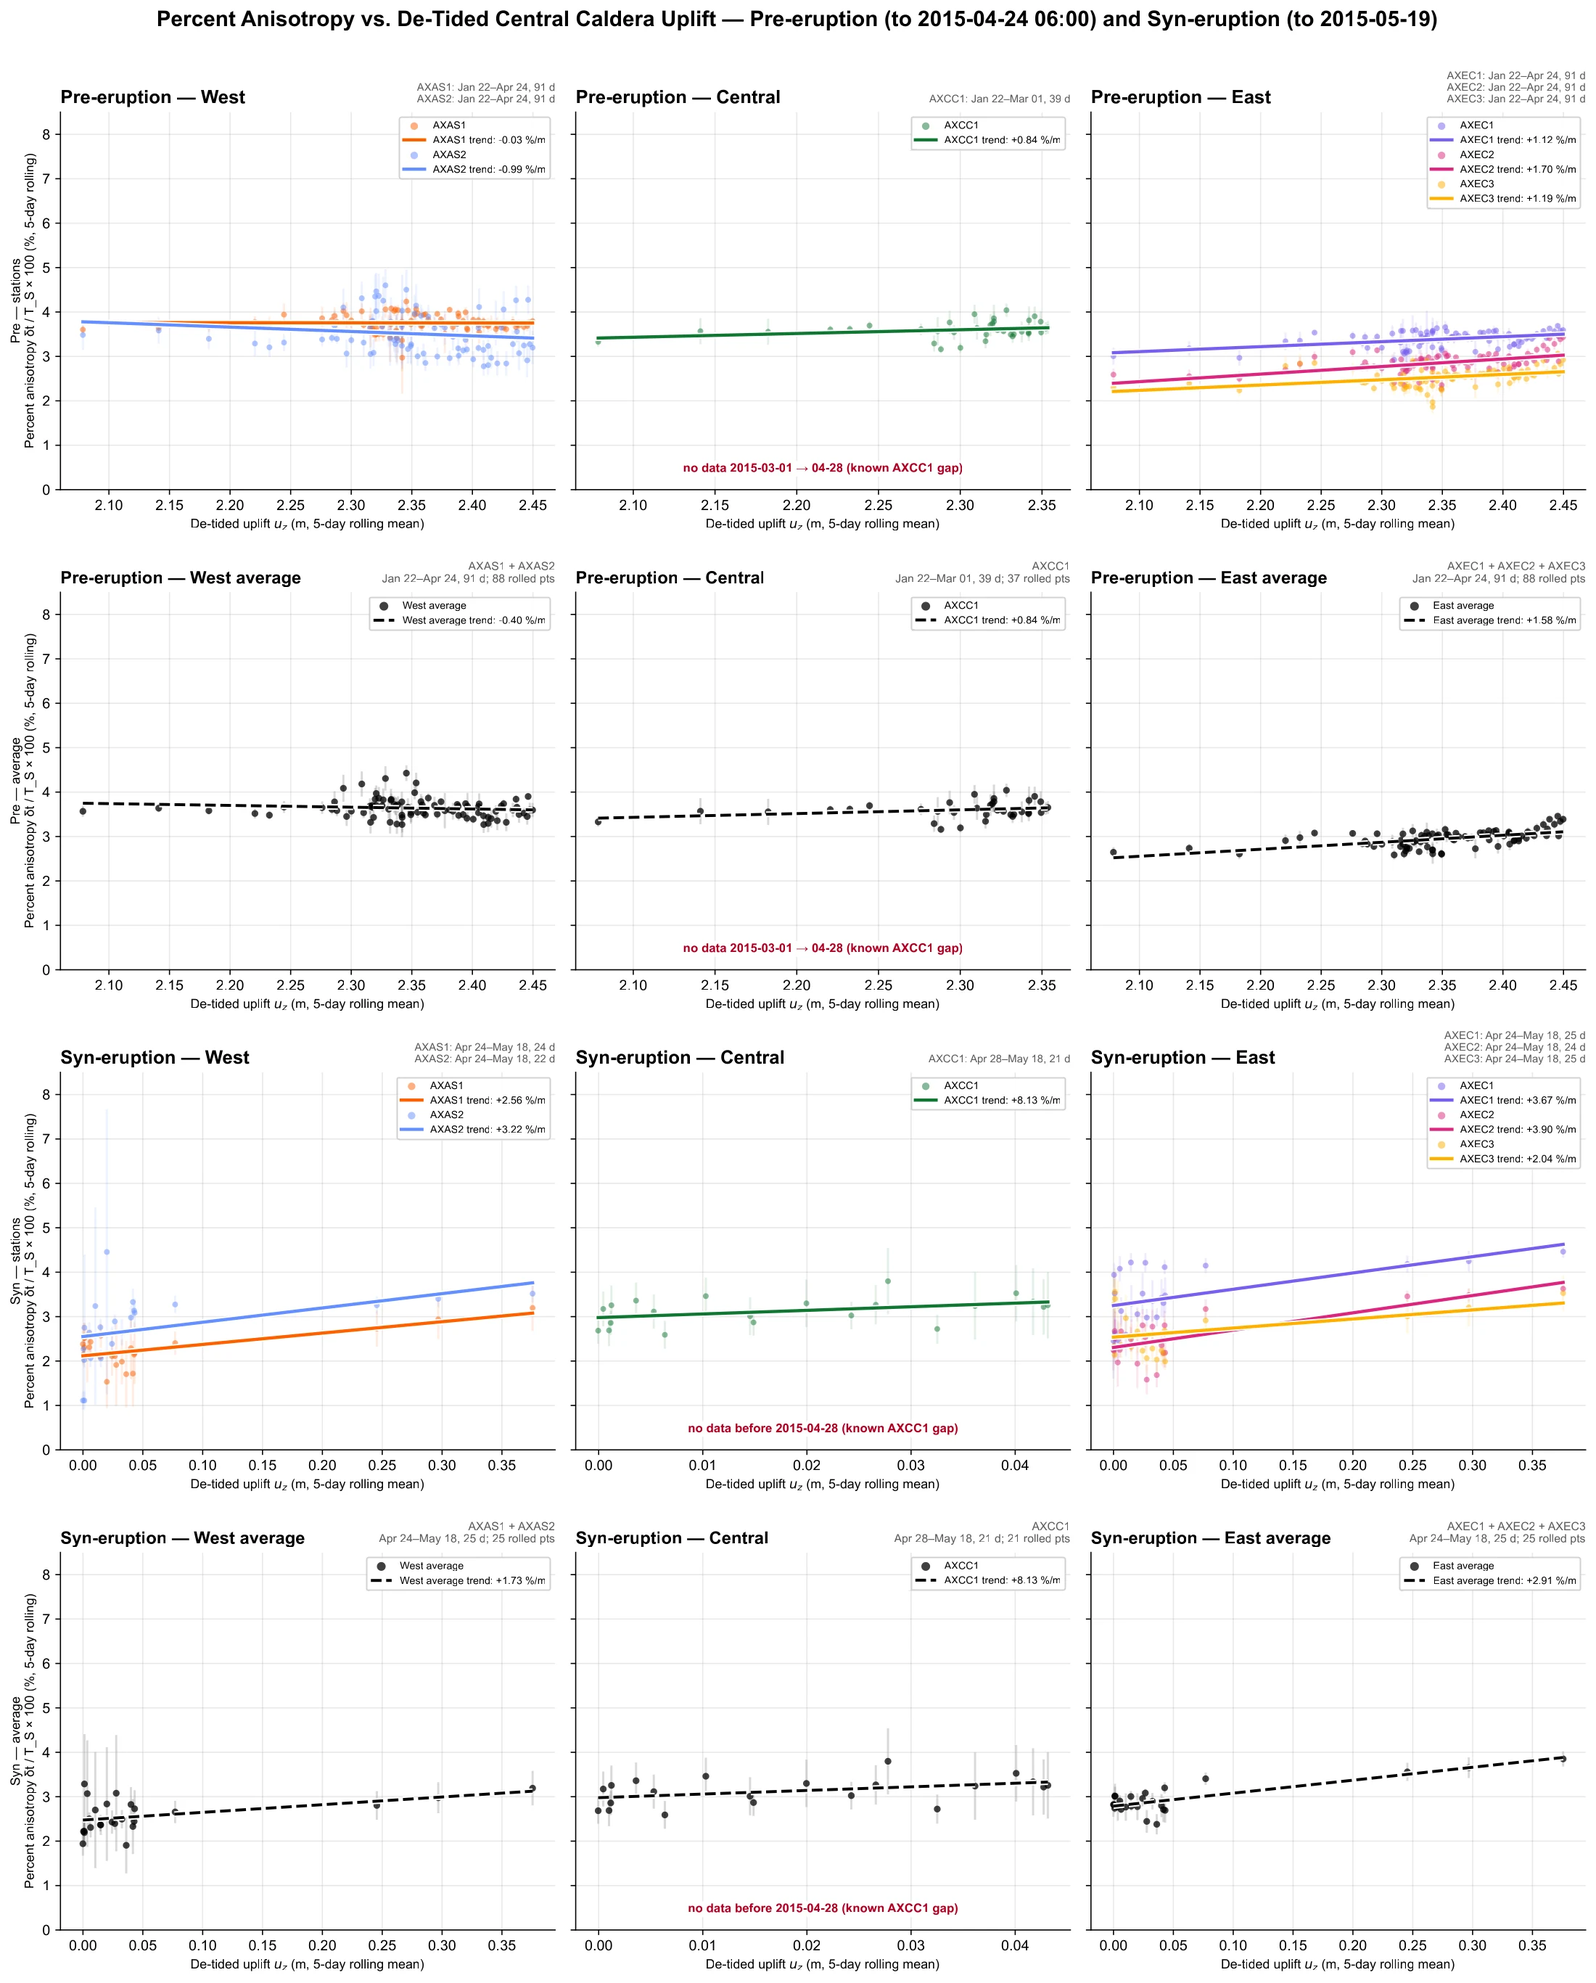
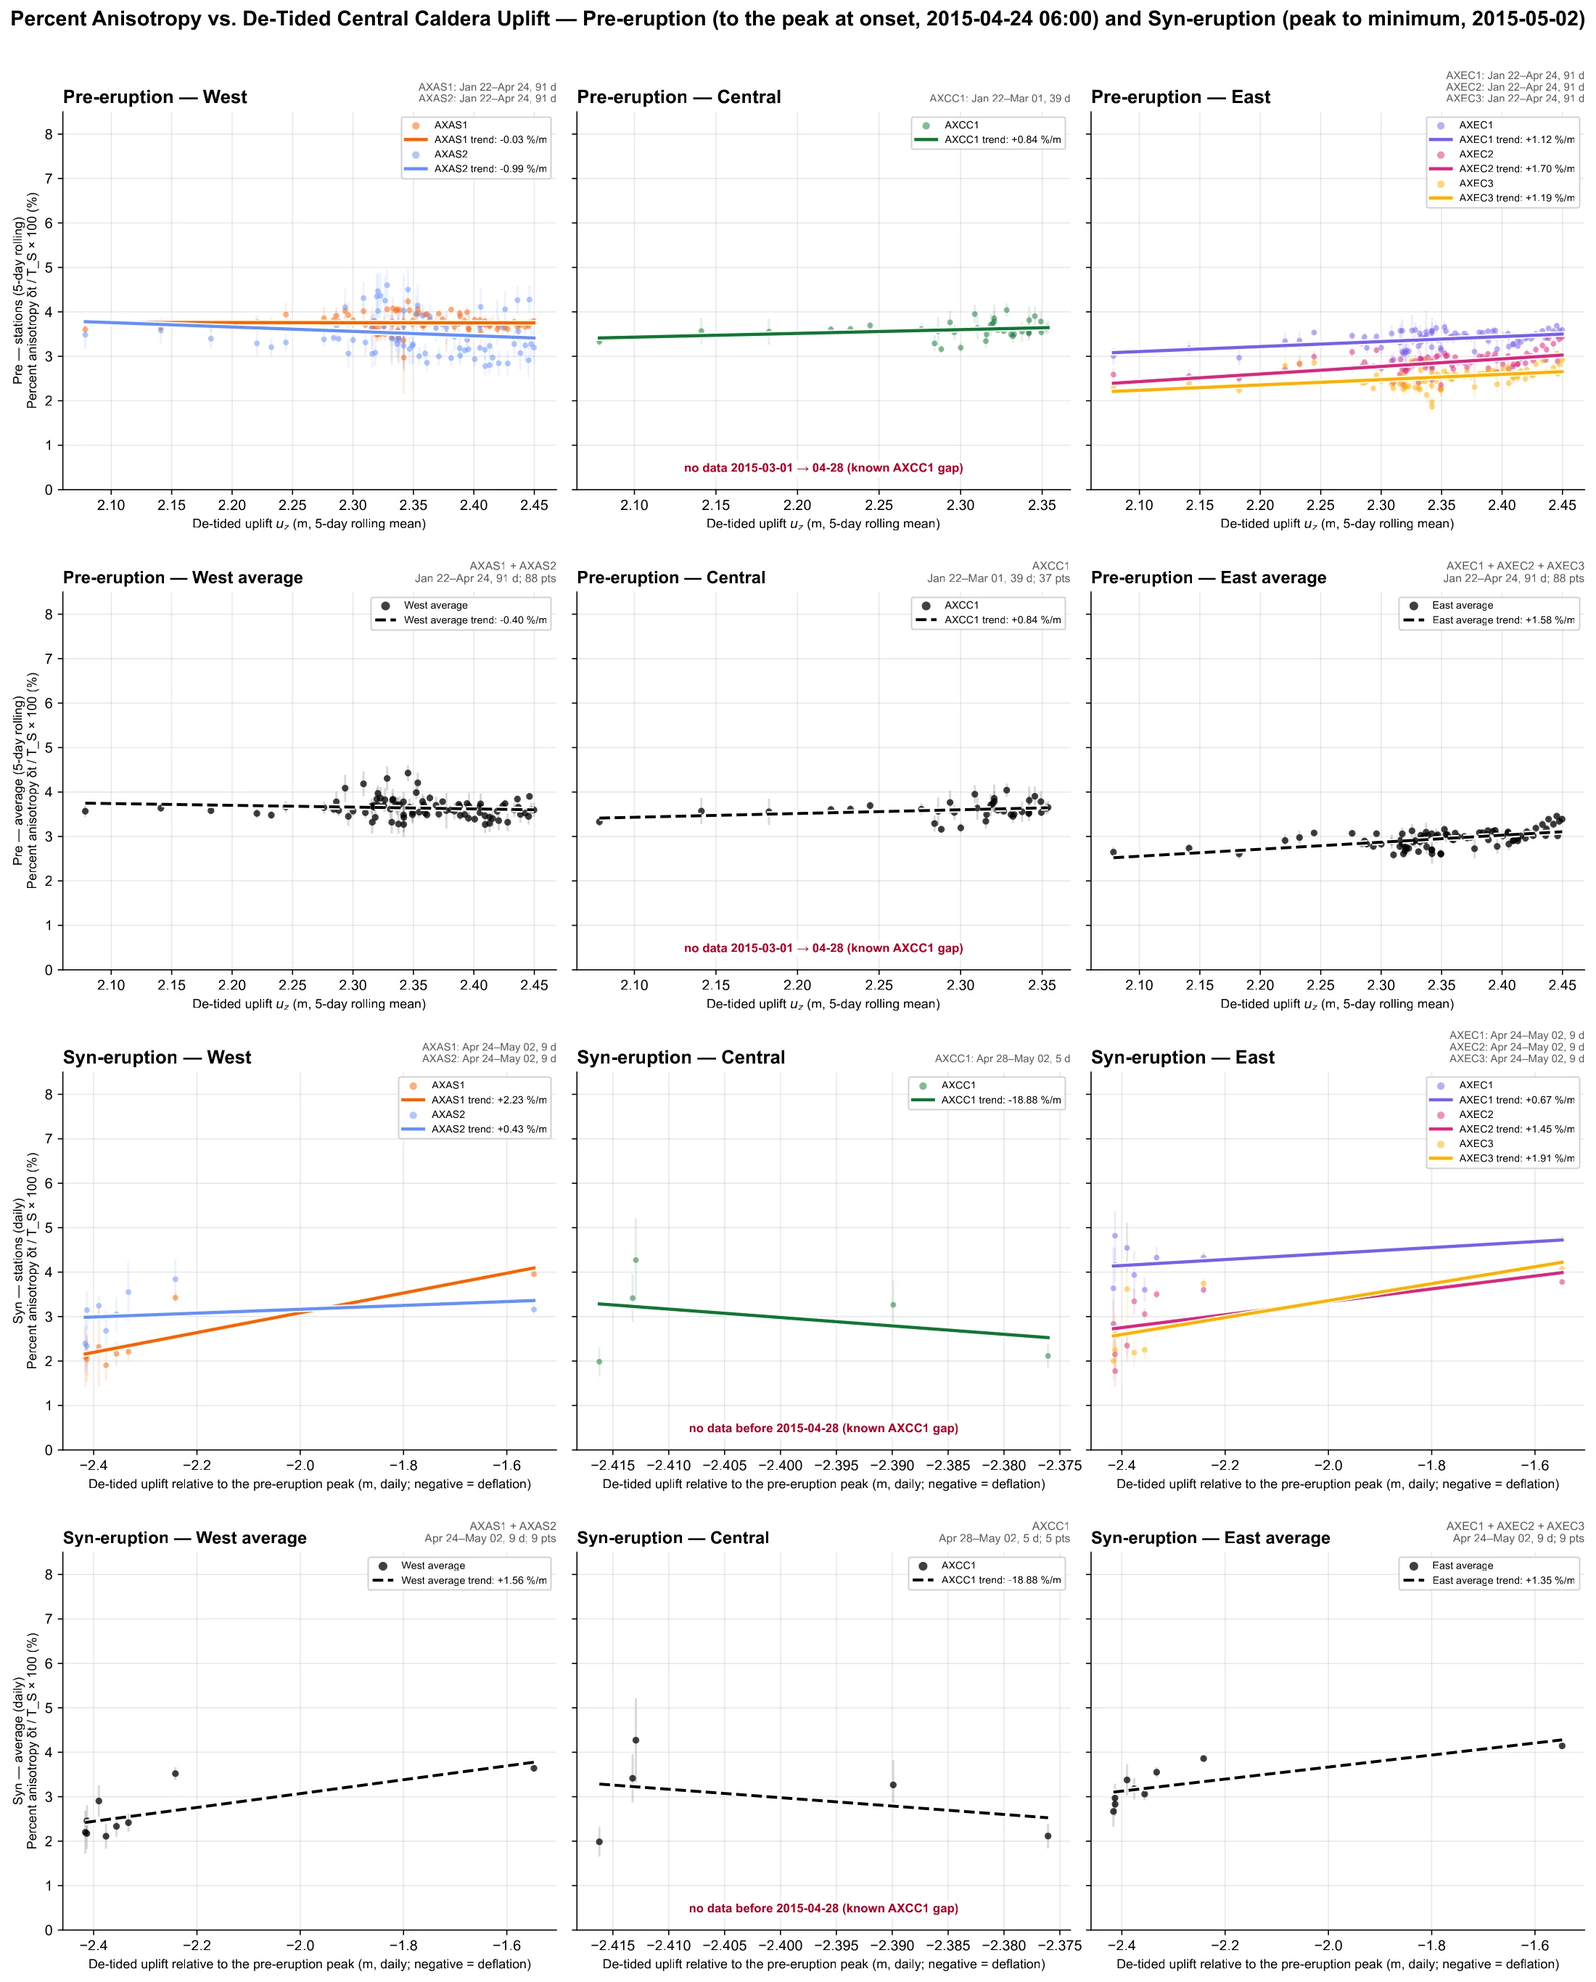
Define syn-eruption as uplift peak to post-eruption minimum
The pre/syn figures now split the record at the pre-eruption uplift peak
and end syn-eruption at the post-eruption minimum (2015-05-02), the zero
reference of every post-eruption figure, instead of using the eruption
window (onset to 05-19).

* The peak is taken at eruption onset (2015-04-24 06:00). Uplift was still
  rising into it, and the earlier plateau high (Apr 6, 2.466 m) is within
  noise of the Apr 23 value (2.458 m).
* Syn-eruption uplift is now relative to the peak, so it runs from 0 to
  about -2.4 m (deflation). The peak level is the mean of the 24 h before
  onset: the hourly de-tided record carries a ~+-1 m tidal residual there,
  and a shorter window landed on a trough.
* Syn-eruption is 9 days long, so it uses daily values with SE from each
  day's events. Pre-eruption keeps the 5-day windows.

2015-05-03 to 05-18 is now in neither these figures nor the post-eruption
ones (which start at 05-19); the captions say so.

diff --git a/site/figures.js b/site/figures.js
@@ -468,24 +468,24 @@ window.AXIAL_FIGURES = [
     "tab": "results",
     "group": "geodetic",
     "title": "Percent anisotropy vs. uplift — pre- and syn-eruption",
-    "caption": "Percent anisotropy A = δt / T_S × 100 against de-tided Central Caldera uplift before the eruption (2015-01-22 → 04-24 06:00) and during it (→ 05-19, where the post-eruption figures begin). Rows: pre stations, pre averages, syn stations, syn averages; linear trendline on every series. 5-day rolling windows, computed strictly inside each period (the syn period is only ~25 days and most of the ~2.4 m deflation happens on the first day, so the post-eruption 30-day window cannot be used). Read the syn trends with care: almost all syn uplift values sit at 0–0.05 m and the first ~3 days after onset (0.25–0.38 m) carry the slopes. AXCC1 has no data 2015-03-01 → 04-28, so its syn panel spans only 0–0.045 m. Note that uplift bottoms out on 2015-05-02, so the last ~2 weeks of 'syn' already contain the earliest re-inflation.",
+    "caption": "Percent anisotropy A = δt / T_S × 100 against de-tided Central Caldera uplift before and during the eruption. Pre-eruption runs from the start of the record (2015-01-22) to the uplift peak, taken at eruption onset (2015-04-24 06:00); syn-eruption runs from that peak to the post-eruption uplift minimum (2015-05-02), the zero reference of every post-eruption figure. Pre-eruption uplift is relative to that minimum (positive, 5-day rolling); syn-eruption uplift is relative to the peak (mean of the 24 h before onset), so it is negative: 0 → −2.4 m of deflation. Syn values are daily (the period is 9 days), with ±1 SE from that day's events. Linear trendline on every series. Read the syn trends with care: most of the deflation happens within the first day, so the onset day (−1.55 m) is the only point away from the −2.3 to −2.4 m cluster and it sets the slopes. AXCC1 has no data 2015-03-01 → 04-28. 2015-05-03 → 05-18 (earliest re-inflation) is in neither this figure nor the post-eruption ones, which start at 05-19.",
     "badge": [],
     "featured": true,
     "src": "assets/figures/results/geo-presyn-aniso.webp",
     "width": 2200,
-    "height": 2733
+    "height": 2732
   },
   {
     "id": "geo-presyn-phi",
     "tab": "results",
     "group": "geodetic",
     "title": "Fast direction vs. uplift — pre- and syn-eruption",
-    "caption": "Same periods, windows and layout as the percent-anisotropy figure, for the rolling circular-mean fast direction (one y-axis wrap per column so rows line up). Linear trendlines only — the atan2 fit cannot be constrained by 25 days, and its β is not identifiable anyway. The same leverage caveat applies to the syn trends; pre-eruption AXCC1 is bimodal, so its trendline does not describe it, and its −680 °/m syn slope reflects a 0.045 m uplift span, not a physical rate.",
+    "caption": "Same periods, uplift references, smoothing and layout as the percent-anisotropy figure, for the circular-mean fast direction (one y-axis wrap per column so rows line up). Linear trendlines only — the atan2 fit cannot be constrained by 9 days, and its β is not identifiable anyway. The same onset-day leverage applies to the syn trends; pre-eruption AXCC1 is bimodal, so its trendline does not describe it, and AXCC1's syn panel spans only 0.04 m of uplift, so its slope is not a physical rate.",
     "badge": [],
     "featured": false,
     "src": "assets/figures/results/geo-presyn-phi.webp",
     "width": 2200,
-    "height": 2733
+    "height": 2738
   },
   {
     "id": "geo-post-aniso",

diff --git a/scripts/uplift_vs_phi_aniso_pre_syn_ccal.py b/scripts/uplift_vs_phi_aniso_pre_syn_ccal.py
@@ -12,16 +12,24 @@ ccal_30day.py). Two figures, each 4 rows x 3 columns (West / Central / East):
     row 4  syn-eruption, regional averages
 
 Periods:
-    pre  = start of record (2015-01-22) -> ERUPTION_START (2015-04-24 06:00)
-    syn  = ERUPTION_START -> ERUPTION_END (2015-05-19), i.e. up to where the post-eruption
-           re-inflation figures begin. NOTE: the de-tided uplift itself bottoms out on 2015-05-02
-           (load_daily_series' ref_time) and is already rising by 05-19, so the last ~2 weeks of
-           "syn" contain the earliest re-inflation.
+    pre  = start of record (2015-01-22) -> the pre-eruption uplift PEAK
+    syn  = the peak -> the post-eruption uplift MINIMUM (load_daily_series' ref_time, 2015-05-02,
+           inclusive) -- the zero reference of every post-eruption figure.
+The peak is taken at eruption onset (ERUPTION_START, 2015-04-24 06:00), by user decision: uplift
+was still rising into it (Apr 23 daily mean 2.458 m) and the earlier plateau high (Apr 6,
+2.466 m) is within day-to-day noise of it. NOTE: the post-eruption figures still start at
+ERUPTION_END (2015-05-19), so 2015-05-03 .. 05-18 (earliest re-inflation) is in neither set.
 
-Smoothing: ROLL_DAYS-day centred rolling windows (not the post-eruption 30 days -- the
-syn-eruption period is only ~25 days long and most of the ~2.4 m deflation happens on the first
-day, which a 30-day window would erase). Rolling is done STRICTLY within each period, for the
-seismic series and for uplift, so nothing mixes across the eruption onset. Uplift is de-tided
+Uplift reference: PRE-eruption uplift is relative to the post-eruption minimum, as everywhere
+else (positive, ~2.1-2.45 m). SYN-eruption uplift is relative to the PEAK level -- the mean
+de-tided level over the PEAK_REF_HOURS before onset (24 h = two semidiurnal cycles, because the
+hourly de-tided record carries a ~+-1 m tidal residual around onset) -- so it runs from 0 down to
+about -2.4 m: the deflation.
+
+Smoothing: pre-eruption uses ROLL_DAYS-day centred rolling windows; syn-eruption (~9 days, with
+most of the deflation inside the first day) uses DAILY values, no rolling, with +-1 SE from the
+spread of that day's events. Everything is computed STRICTLY within each period, seismic series
+and uplift alike, so nothing mixes across the boundaries. Uplift is de-tided
 CCAL BOTPT, referenced to the post-eruption minimum as everywhere else, averaged per day from
 the minute-level record restricted to the period (the onset day is split at 06:00).
 
@@ -29,7 +37,7 @@ Metrics, from the same pooled Grade-3 events and AXEC2 unleveled-window drop:
     phi  per-day circular mean -> rolling circular mean (+-1 SE = circ. std / sqrt(days))
     A    dt / T_S * 100, T_S from the PyKonal travel-time cache (see the anisotropy script)
 Each series gets a least-squares LINEAR trendline (slope in legend). The atan2 fit is not used:
-25 days cannot constrain it, and its beta is not identifiable anyway.
+9 days cannot constrain it, and its beta is not identifiable anyway.
 
 Missing data are stated on the panels; AXCC1 has no data 2015-03-01 to 2015-04-28 (known gap).
 
@@ -64,11 +72,16 @@ import bpr_inflation_periods_ccal as ccal_infl
 HERE = os.path.dirname(os.path.abspath(__file__))
 ROLL_DAYS = 5
 ROLL_MIN_DAYS = 2
+PEAK_REF_HOURS = 24
 RECORD_START = pd.Timestamp('2015-01-22', tz='UTC')
+PEAK_TIME = ERUPTION_START                       # pre-eruption uplift peak (see docstring)
+_MIN_TIME = ccal_infl.load_daily_series()[3]     # post-eruption minimum = post zero reference
+SYN_END = _MIN_TIME + pd.Timedelta(days=1)       # minimum day inclusive
 PERIODS = [
-    ('Pre-eruption', RECORD_START, ERUPTION_START),
-    ('Syn-eruption', ERUPTION_START, ERUPTION_END),
+    ('Pre-eruption', RECORD_START, PEAK_TIME),
+    ('Syn-eruption', PEAK_TIME, SYN_END),
 ]
+ROLL_BY_PERIOD = {'Pre-eruption': ROLL_DAYS, 'Syn-eruption': 1}   # 1 = daily, no rolling
 HALO = [pe.withStroke(linewidth=4, foreground='white')]
 
 
@@ -79,22 +92,45 @@ def uplift_daily_by_period():
     raw = pd.read_csv(ccal_infl.DETIDED_CSV, usecols=['time', 'detided_depth_m'])
     raw['time'] = pd.to_datetime(raw['time'], utc=True)
     raw = raw.set_index('time')['detided_depth_m'] - ref_depth
+    pre_peak = raw[(raw.index >= PEAK_TIME - pd.Timedelta(hours=PEAK_REF_HOURS)) &
+                   (raw.index < PEAK_TIME)]
+    u_peak = float(pre_peak.mean())
+    print(f'Uplift at the pre-eruption peak (mean of {PEAK_REF_HOURS} h before onset): '
+          f'{u_peak:.3f} m above the post-eruption minimum')
     out = {}
     for label, t0, t1 in PERIODS:
         s = raw[(raw.index >= t0) & (raw.index < t1)]
+        if label == 'Syn-eruption':
+            s = s - u_peak           # relative to the peak: 0 -> ~-2.4 m (deflation)
         daily = s.groupby(s.index.floor('D')).mean()
-        out[label] = daily.rolling(f'{ROLL_DAYS}D', center=True, min_periods=ROLL_MIN_DAYS).mean()
+        n = ROLL_BY_PERIOD[label]
+        out[label] = daily if n == 1 else \
+            daily.rolling(f'{n}D', center=True, min_periods=ROLL_MIN_DAYS).mean()
     return out
 
 
-def rolled(pool, metric, t0, t1, u_daily):
+def rolled(pool, metric, t0, t1, u_daily, roll_days=ROLL_DAYS):
     """Daily -> within-period rolling series of `metric` ('phi' or 'A'), joined to uplift by day.
     Returns DataFrame(t, u, v, se) with v in raw degrees (phi) or % (A)."""
     p = pool[(pool['t'] >= t0) & (pool['t'] < t1)].copy()
     if len(p) == 0:
         return pd.DataFrame(columns=['t', 'u', 'v', 'se'])
     p['day'] = p['t'].dt.floor('D')
-    win = f'{ROLL_DAYS}D'
+    if roll_days == 1:                       # daily values; SE from that day's events
+        if metric == 'phi':
+            a = 2.0 * np.radians(p['phi_az'] % 180.0)
+            g = pd.DataFrame({'s2': np.sin(a), 'c2': np.cos(a), 'day': p['day']}).groupby('day')
+            ms, mc, n = g['s2'].mean(), g['c2'].mean(), g['s2'].count()
+            v = (np.degrees(np.arctan2(ms, mc)) / 2.0) % 180.0
+            R = np.clip(np.hypot(ms, mc), 1e-12, 1.0)
+            se = np.degrees(np.sqrt(-2.0 * np.log(R))) / 2.0 / np.sqrt(n.clip(lower=1))
+        else:
+            g = p.groupby('day')['A_pct']
+            v, se = g.mean(), g.std() / np.sqrt(g.count().clip(lower=1))
+        df = pd.DataFrame({'v': v, 'se': se.fillna(0.0)}).dropna(subset=['v'])
+        df['u'] = u_daily.reindex(df.index).values
+        return df.dropna(subset=['u']).reset_index().rename(columns={'day': 't'})
+    win = f'{roll_days}D'
     if metric == 'phi':
         a = 2.0 * np.radians(p['phi_az'] % 180.0)
         p['s2'], p['c2'] = np.sin(a), np.cos(a)
@@ -160,7 +196,7 @@ def make_figure(metric, pools, u_by_period, out_base):
     if is_phi:
         for col, (title, _s, members) in enumerate(PANELS):
             vals = np.concatenate([rolled(pools[tuple(members)], 'phi', t0, t1,
-                                          u_by_period[lbl])['v'].values
+                                          u_by_period[lbl], ROLL_BY_PERIOD[lbl])['v'].values
                                    for lbl, t0, t1 in PERIODS])
             wraps[col] = compute_optimal_wrap(vals) if len(vals) > 1 else 0.0
 
@@ -174,7 +210,7 @@ def make_figure(metric, pools, u_by_period, out_base):
 
             # averages (black)
             pool = pools[tuple(members)]
-            d = rolled(pool, metric, t0, t1, u_daily)
+            d = rolled(pool, metric, t0, t1, u_daily, ROLL_BY_PERIOD[plabel])
             avg_lab = f'{title} average' if len(members) > 1 else members[0]
             if len(d):
                 y = to_y(d['v'], col)
@@ -188,7 +224,7 @@ def make_figure(metric, pools, u_by_period, out_base):
                              else f'{plabel} — {title}', fontsize=12, fontweight='bold',
                              loc='left')
             ax_avg.text(1.0, 1.02, f'{subtitle.splitlines()[0]}\n'
-                        f'{coverage_note(pool, t0, t1)}; {len(d)} rolled pts',
+                        f'{coverage_note(pool, t0, t1)}; {len(d)} pts',
                         transform=ax_avg.transAxes, ha='right', va='bottom', fontsize=8,
                         color='0.35')
 
@@ -196,7 +232,7 @@ def make_figure(metric, pools, u_by_period, out_base):
             notes = []
             for sta in members:
                 ps = pools[(sta,)]
-                ds = rolled(ps, metric, t0, t1, u_daily)
+                ds = rolled(ps, metric, t0, t1, u_daily, ROLL_BY_PERIOD[plabel])
                 c = STATION_COLORS[sta]
                 if len(ds):
                     y = to_y(ds['v'], col)
@@ -224,8 +260,10 @@ def make_figure(metric, pools, u_by_period, out_base):
                     ax.spines[side].set_visible(False)
                 if ax.get_legend_handles_labels()[0]:
                     ax.legend(loc='upper right', fontsize=7.2, framealpha=0.9, markerscale=1.3)
-                ax.set_xlabel(f'De-tided uplift $u_z$ (m, {ROLL_DAYS}-day rolling mean)',
-                              fontsize=9)
+                ax.set_xlabel(f'De-tided uplift $u_z$ (m, {ROLL_DAYS}-day rolling mean)'
+                              if p_idx == 0 else
+                              'De-tided uplift relative to the pre-eruption peak (m, daily; '
+                              'negative = deflation)', fontsize=9)
                 if is_phi:
                     lo, hi, tp, tl = compute_full_range_ticks(wraps[col])
                     ax.set_ylim(lo, hi)
@@ -235,14 +273,15 @@ def make_figure(metric, pools, u_by_period, out_base):
     if not is_phi:
         for ax in axes.ravel():
             ax.set_ylim(0, 8.5)
-    ylab = (f'Mean fast direction φ (deg, {ROLL_DAYS}-day rolling)' if is_phi
-            else f'Percent anisotropy δt / T_S × 100 (%, {ROLL_DAYS}-day rolling)')
-    for r, rl in enumerate(['Pre — stations', 'Pre — average', 'Syn — stations',
-                            'Syn — average']):
+    ylab = 'Mean fast direction φ (deg)' if is_phi else 'Percent anisotropy δt / T_S × 100 (%)'
+    for r, rl in enumerate([f'Pre — stations ({ROLL_DAYS}-day rolling)',
+                            f'Pre — average ({ROLL_DAYS}-day rolling)', 'Syn — stations (daily)',
+                            'Syn — average (daily)']):
         axes[r, 0].set_ylabel(f'{rl}\n{ylab}', fontsize=9)
     what = 'Fast Direction' if is_phi else 'Percent Anisotropy'
-    fig.suptitle(f'{what} vs. De-Tided Central Caldera Uplift — Pre-eruption (to 2015-04-24 06:00) '
-                 f'and Syn-eruption (to 2015-05-19)', fontsize=15, fontweight='bold', y=1.005)
+    fig.suptitle(f'{what} vs. De-Tided Central Caldera Uplift — Pre-eruption (to the peak at onset, '
+                 f'2015-04-24 06:00) and Syn-eruption (peak to minimum, '
+                 f'{_MIN_TIME:%Y-%m-%d})', fontsize=14.5, fontweight='bold', y=1.005)
     fig.tight_layout()
     for ext in ('pdf', 'png'):
         fig.savefig(f'{out_base}.{ext}', dpi=180, bbox_inches='tight')
